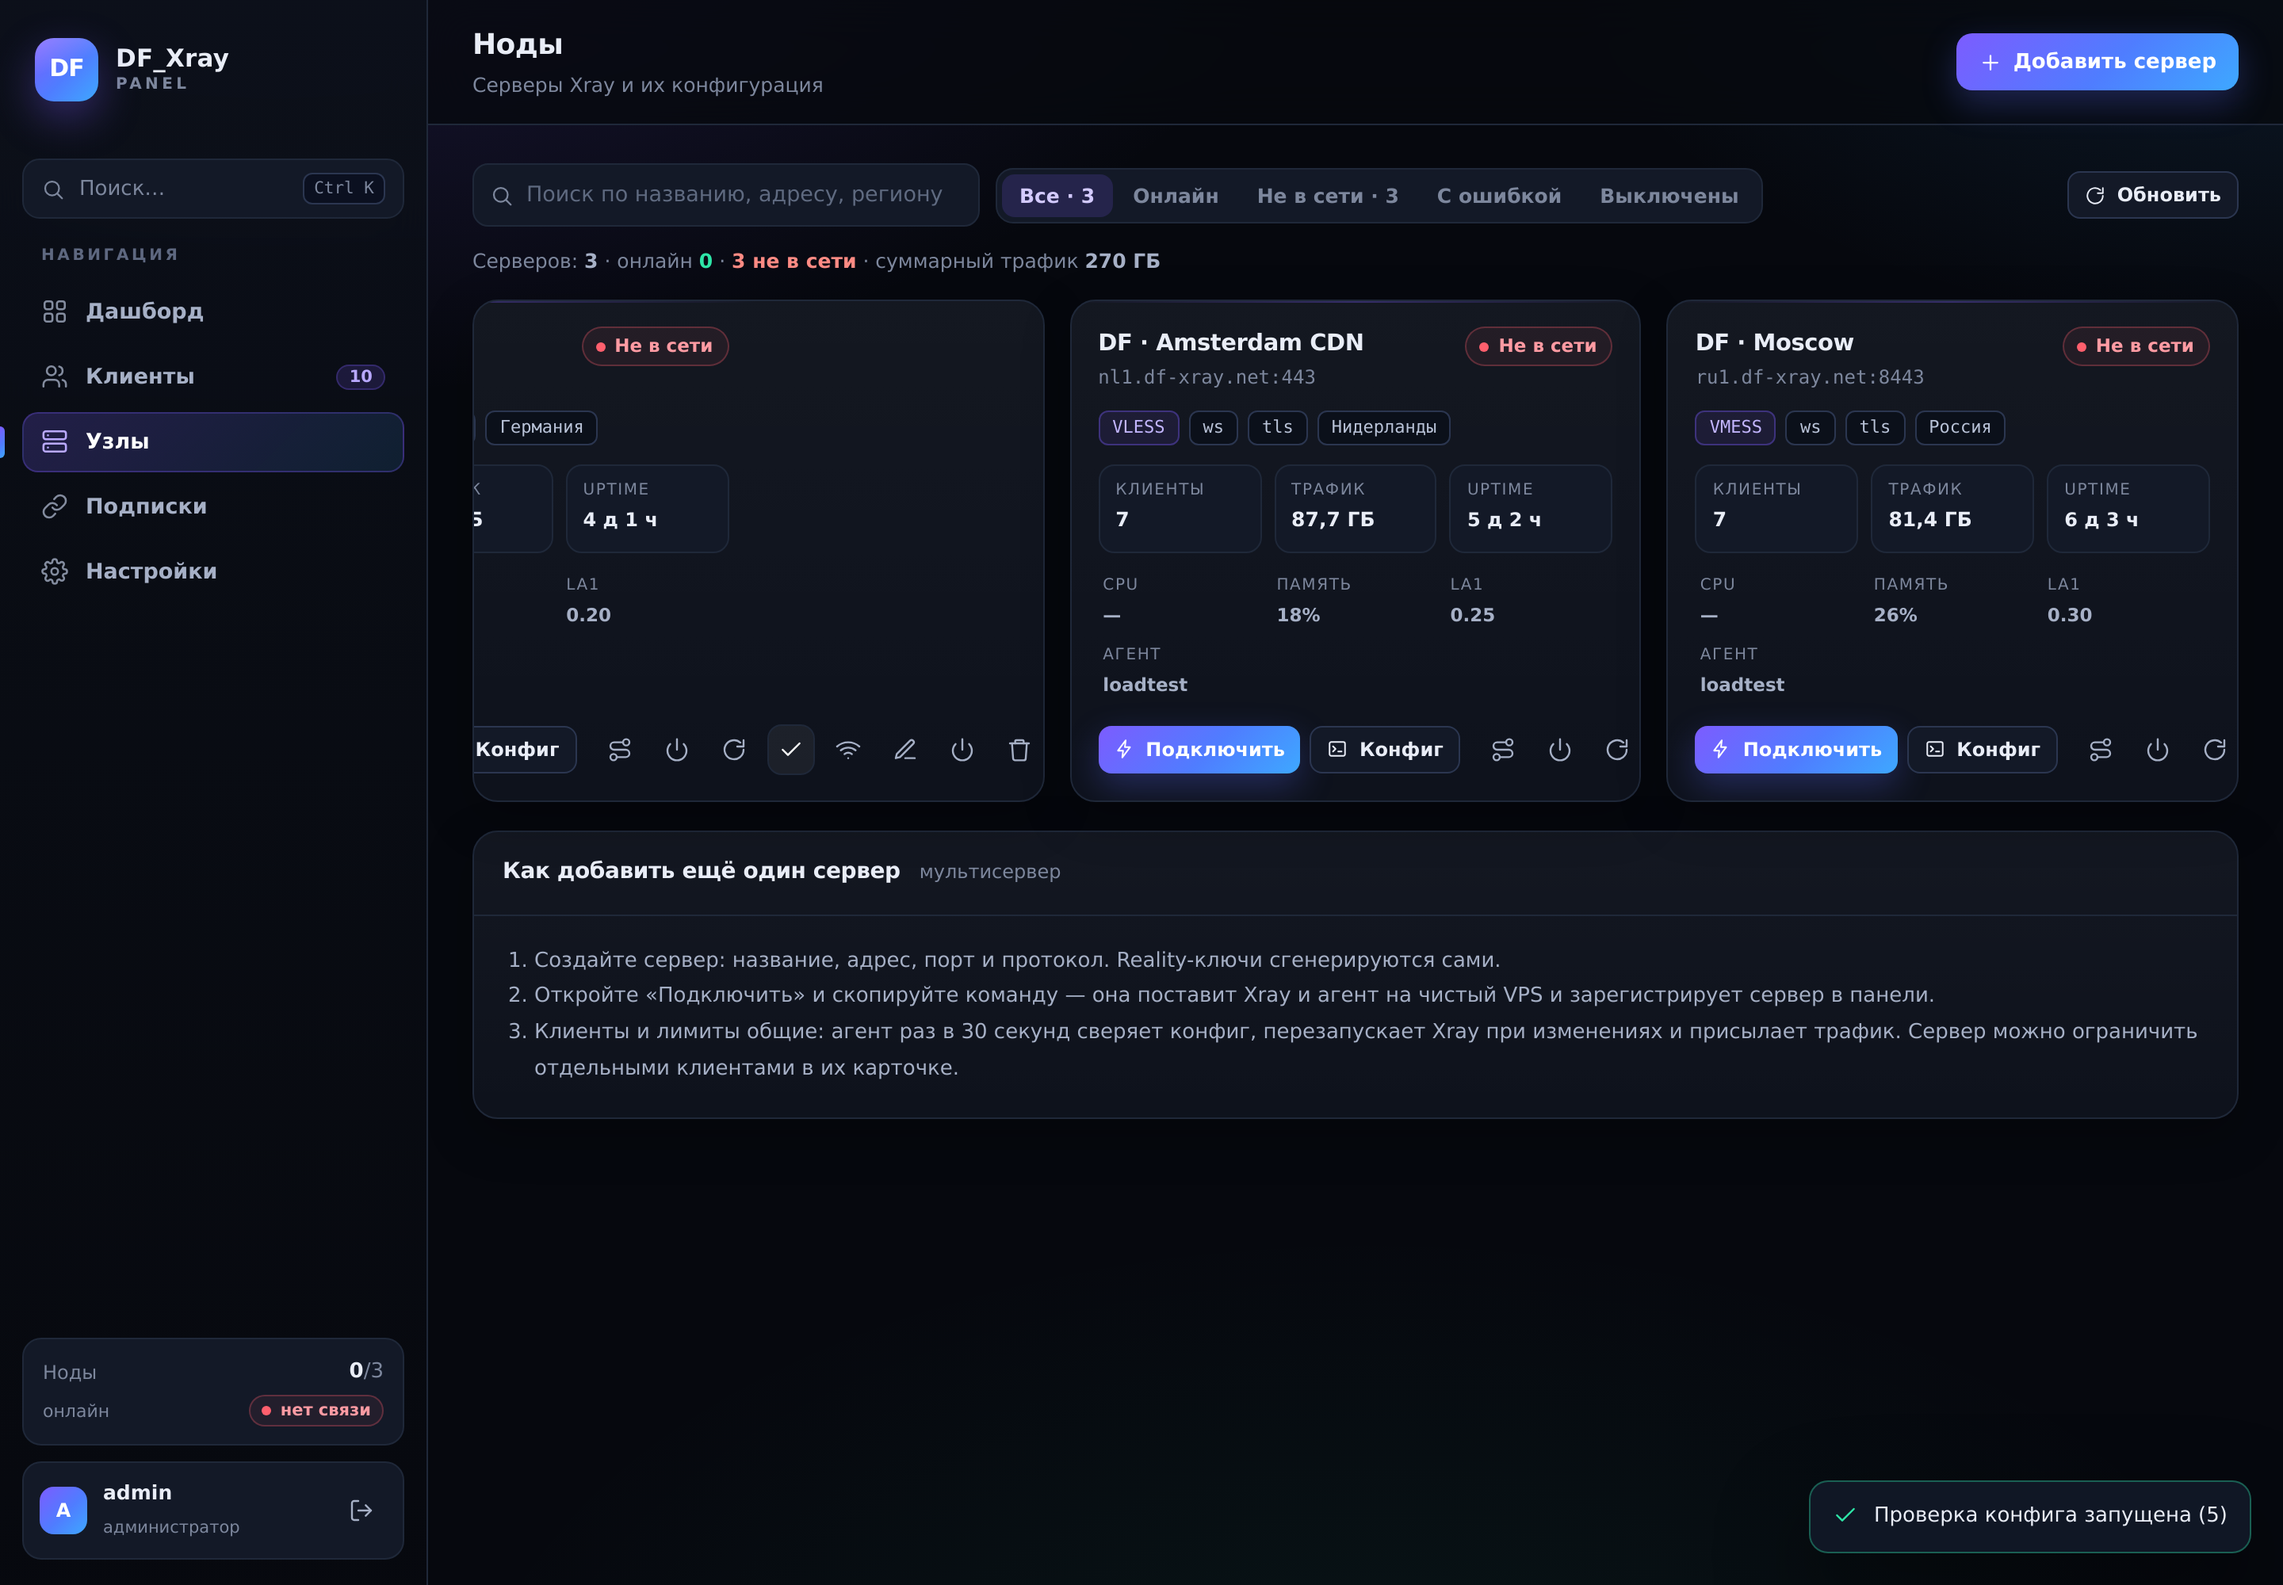
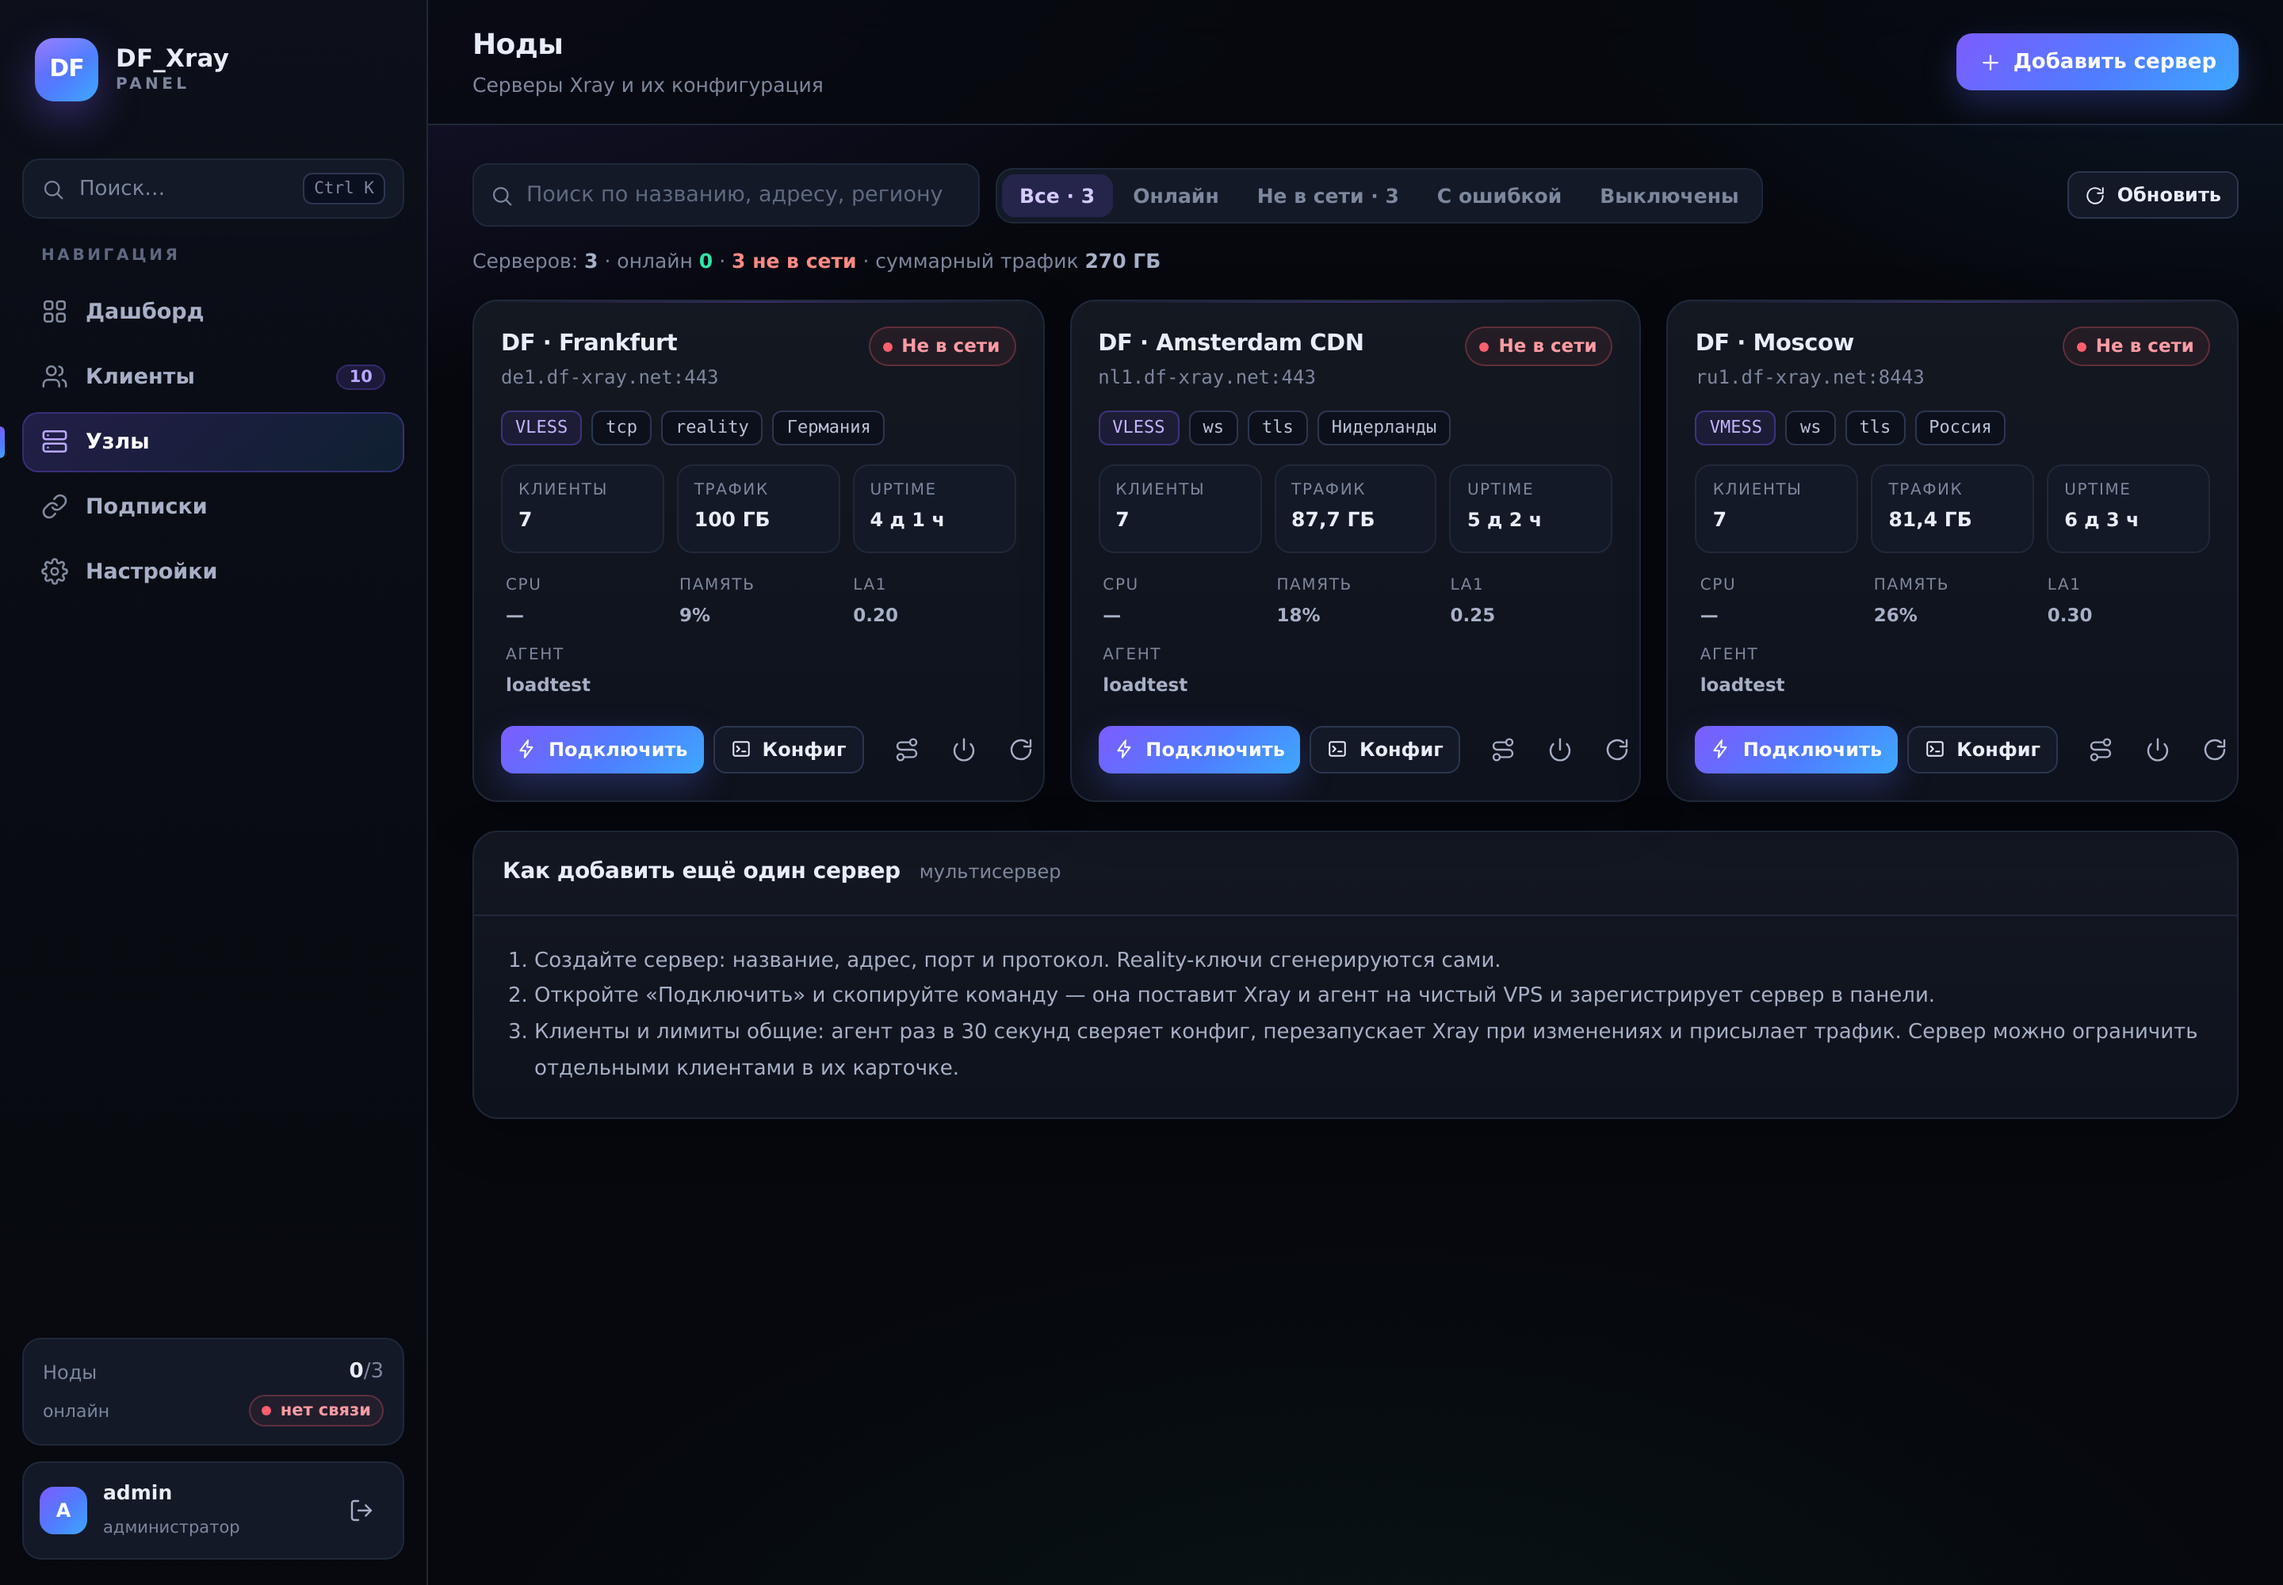
CSS: таблицы вида .table получили те же стили, что .data; обновлены скриншоты

diff --git a/static/css/df.css b/static/css/df.css
@@ -366,6 +366,19 @@ table.data tbody tr:last-child td { border-bottom: 0; }
 table.data td.actions { text-align: right; white-space: nowrap; }
 table.data .cell-user { display: flex; align-items: center; gap: 10px; min-width: 190px; }
 table.data .cell-user .avatar { width: 32px; height: 32px; border-radius: 9px; font-size: 11.5px; }
+table.table { width: 100%; border-collapse: collapse; font-size: 13px; }
+table.table th {
+  text-align: left; padding: 10px 14px; font-size: 10.5px; text-transform: uppercase;
+  letter-spacing: .1em; color: #6f7a92; font-weight: 650; border-bottom: 1px solid var(--line);
+  white-space: nowrap; background: rgba(255, 255, 255, .012); position: sticky; top: 0;
+}
+table.table td { padding: 11px 14px; border-bottom: 1px solid rgba(31, 40, 57, .7); vertical-align: middle; }
+table.table tbody tr { transition: background var(--fast); }
+table.table tbody tr:hover { background: rgba(255, 255, 255, .022); }
+table.table tbody tr:last-child td { border-bottom: 0; }
+table.table td.actions { text-align: right; white-space: nowrap; }
+table.table .cell-user { display: flex; align-items: center; gap: 10px; min-width: 190px; }
+table.table .cell-user .avatar { width: 32px; height: 32px; border-radius: 9px; font-size: 11.5px; }
 .cell-user .meta { min-width: 0; }
 .cell-user .meta b { display: block; font-weight: 600; font-size: 13px; }
 .cell-user .meta span { color: var(--muted); font-size: 11.5px; }
